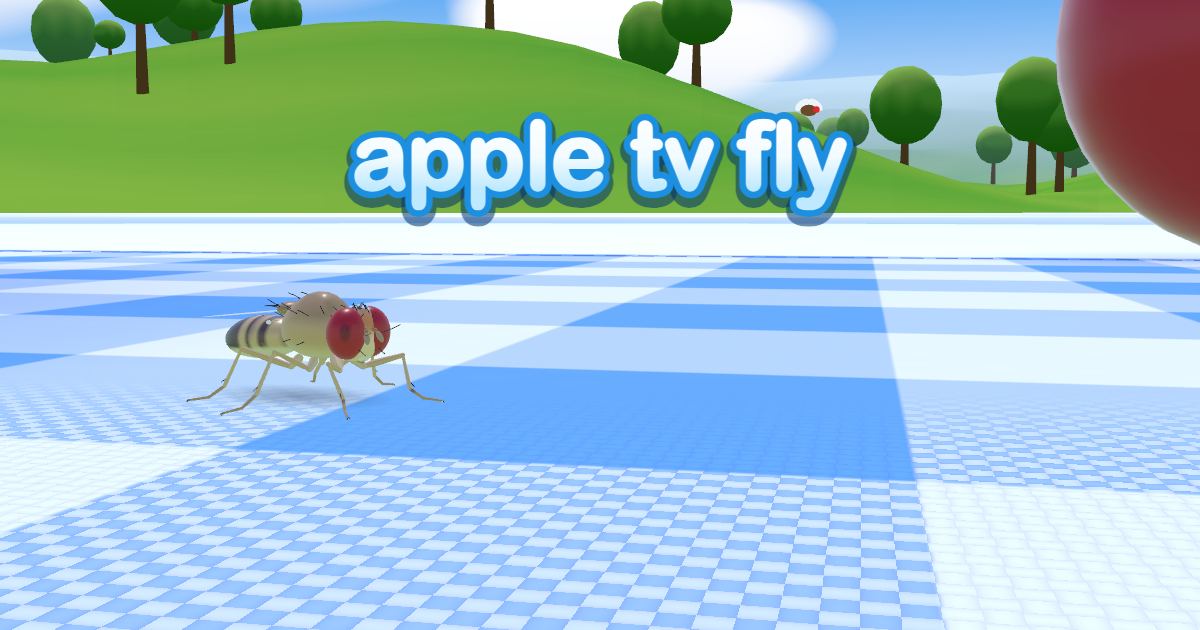
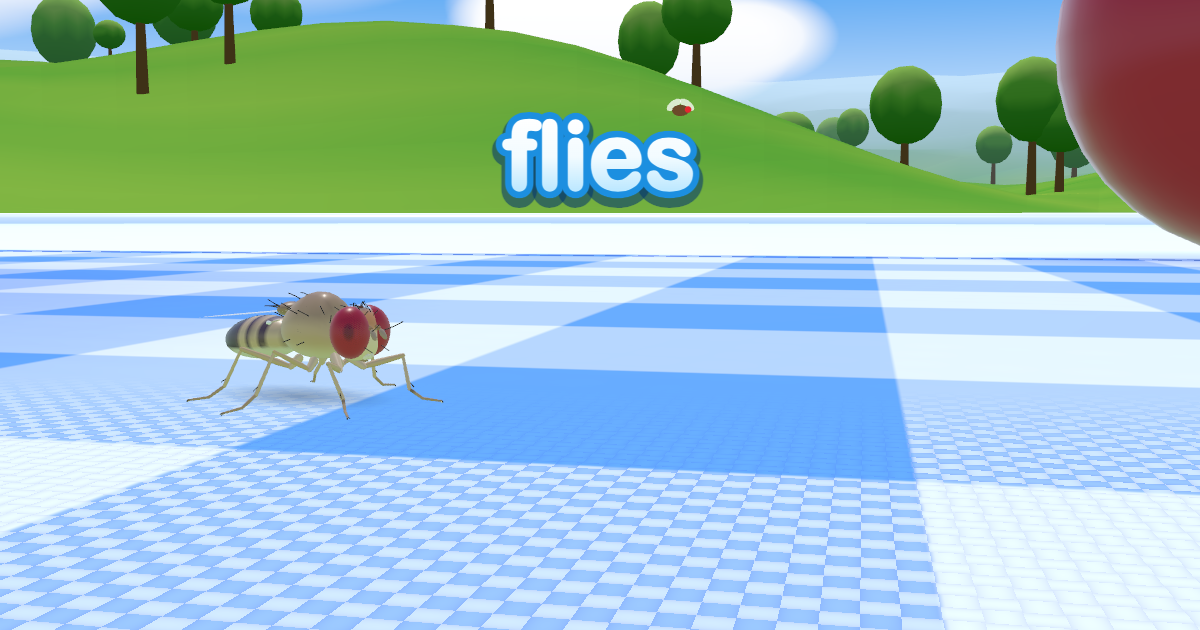
Call it Flies
The name people see is Flies: the title screen's wordmark, the launch image and link preview drawn with it, the Apple TV's display name, the browser tab, the web app manifest and the page's link preview. The bundle identifier is com.isaacthoman.flies, so a TV with the old app gets this as a separate app with fresh settings, and WeatherKit needs turning on for the new App ID (docs/apple-tv.md). The repository, the root package, the Xcode project and target, the saved settings' keys and the native threads and queues are named flies too.

diff --git a/apps/web/index.html b/apps/web/index.html
@@ -3,21 +3,21 @@
   <head>
     <meta charset="UTF-8" />
     <meta name="viewport" content="width=device-width, initial-scale=1, maximum-scale=1, user-scalable=no, viewport-fit=cover" />
-    <title>Apple TV Fly</title>
+    <title>Flies</title>
     <meta name="description" content="A fruit fly that lives on your screen. Nothing it does is scripted: a simulation of its whole nervous system, 166,700 neurons wired from the FlyEM male CNS connectome (Janelia Research Campus, CC-BY 4.0), decides what it does." />
     <meta name="theme-color" content="#04122b" />
     <meta name="color-scheme" content="dark" />
     <meta name="mobile-web-app-capable" content="yes" />
-    <meta name="apple-mobile-web-app-title" content="Apple TV Fly" />
+    <meta name="apple-mobile-web-app-title" content="Flies" />
     <link rel="icon" type="image/png" href="../../assets/web/favicon.png" />
     <link rel="apple-touch-icon" href="../../assets/web/apple-touch-icon.png" />
     <meta property="og:type" content="website" />
-    <meta property="og:title" content="Apple TV Fly" />
+    <meta property="og:title" content="Flies" />
     <meta property="og:description" content="A fruit fly whose every move is decided by a simulation of its whole nervous system: 166,700 neurons wired from the FlyEM male CNS connectome (Janelia Research Campus, CC-BY 4.0)." />
     <meta property="og:image" content="../../assets/web/preview.png" />
     <meta property="og:image:width" content="1200" />
     <meta property="og:image:height" content="630" />
-    <meta property="og:image:alt" content="A fruit fly standing on a picnic table under the words apple tv fly" />
+    <meta property="og:image:alt" content="A fruit fly standing on a picnic table under the word flies" />
     <meta name="twitter:card" content="summary_large_image" />
     <style>
       /* The game draws everything itself and fills the screen, under the notch too: the page must never scroll, zoom, select or offer its own menus. */

diff --git a/apps/web/tests/settings.test.ts b/apps/web/tests/settings.test.ts
@@ -26,8 +26,8 @@ function memory(saved: Record<string, string> = {}) {
     },
   };
 }
-const settingsSaved = (value: unknown) => memory({ "apple-tv-fly.settings": typeof value === "string" ? value : JSON.stringify(value) });
-const shelfSaved = (value: unknown) => memory({ "apple-tv-fly.shelf": typeof value === "string" ? value : JSON.stringify(value) });
+const settingsSaved = (value: unknown) => memory({ "flies.settings": typeof value === "string" ? value : JSON.stringify(value) });
+const shelfSaved = (value: unknown) => memory({ "flies.shelf": typeof value === "string" ? value : JSON.stringify(value) });
 
 const HOUR = 3_600_000;
 const NOW = Date.UTC(2026, 10, 16, 20);
@@ -139,9 +139,9 @@ test("what the hints have taught comes back, of the lessons this build has", () 
   saveLearned({ tools: true, feed: true, feather: true }, store);
   assert.deepEqual(loadLearned(store), { tools: true, feed: true, feather: true });
   // A tool since dropped, or a value that isn't a plain yes, is passed over.
-  const old = memory({ "apple-tv-fly.learned": JSON.stringify({ tools: true, lamp: true, swoop: 1, blow: "yes", place: true }) });
+  const old = memory({ "flies.learned": JSON.stringify({ tools: true, lamp: true, swoop: 1, blow: "yes", place: true }) });
   assert.deepEqual(loadLearned(old), { tools: true, place: true });
-  for (const raw of ["", "{", "null", '["tools"]', "true"]) assert.deepEqual(loadLearned(memory({ "apple-tv-fly.learned": raw })), {}, raw);
+  for (const raw of ["", "{", "null", '["tools"]', "true"]) assert.deepEqual(loadLearned(memory({ "flies.learned": raw })), {}, raw);
   assert.deepEqual(loadLearned(null), {});
 });
 

diff --git a/scripts/tvos.ts b/scripts/tvos.ts
@@ -10,7 +10,7 @@ const root = path.join(import.meta.dirname, '..');
 const appDir = path.join(root, 'apps/tvos');
 const www = path.join(appDir, 'www');
 const DEFAULT_TEAM_ID = 'PX72AL9366';
-const DEFAULT_BUNDLE_ID = 'com.isaacthoman.appletvfly';
+const DEFAULT_BUNDLE_ID = 'com.isaacthoman.flies';
 const TEAM_ID = process.env.TVOS_TEAM_ID || DEFAULT_TEAM_ID;
 export const BUNDLE_ID = process.env.TVOS_BUNDLE_ID || DEFAULT_BUNDLE_ID;
 /** The weather outside from WeatherKit: off unless the App ID has the capability (docs/apple-tv.md). */
@@ -98,12 +98,12 @@ function prepare({ testScene, standInBrain, standInWeather }: BuildOptions) {
   return env;
 }
 
-export const appPath = (sim: boolean) => path.join(appDir, `build/Build/Products/Release-${sim ? 'appletvsimulator' : 'appletvos'}/AppleTVFly.app`);
+export const appPath = (sim: boolean) => path.join(appDir, `build/Build/Products/Release-${sim ? 'appletvsimulator' : 'appletvos'}/Flies.app`);
 
 function build(options: BuildOptions) {
   const env = prepare(options);
   run('xcodebuild', [
-    '-project', 'AppleTVFly.xcodeproj', '-scheme', 'AppleTVFly', '-configuration', 'Release',
+    '-project', 'Flies.xcodeproj', '-scheme', 'Flies', '-configuration', 'Release',
     '-destination', options.sim ? 'generic/platform=tvOS Simulator' : 'generic/platform=tvOS', '-derivedDataPath', 'build',
     ...(options.sim ? ['CODE_SIGNING_ALLOWED=NO', 'ARCHS=arm64'] : ['-allowProvisioningUpdates', '-allowProvisioningDeviceRegistration']), '-quiet', 'build',
   ], appDir, env);

diff --git a/apps/web/tests/quality.test.ts b/apps/web/tests/quality.test.ts
@@ -71,7 +71,7 @@ test("a slow brain steps the picture down only while that helps it", () => {
   const bound = new Quality(saved);
   run(bound, 60, 16, 0.6);
   assert.equal(bound.level, 0, "a brain no cheaper picture helps is left as it is, and the picture with it");
-  assert.equal(saved.items.get("apple-tv-fly.quality") ?? "0", "0", "the way down isn't remembered");
+  assert.equal(saved.items.get("flies.quality") ?? "0", "0", "the way down isn't remembered");
   run(bound, 120, 16, 0.6);
   assert.equal(bound.level, 0, "and it doesn't try again");
 
@@ -103,11 +103,11 @@ test("the player's own choice starts afresh: no trial or half-judged window left
 });
 
 test("it starts a step better than where it settled last time, and the player's own choice resets it", () => {
-  const saved = store({ "apple-tv-fly.quality": "4" });
+  const saved = store({ "flies.quality": "4" });
   const q = new Quality(saved);
   assert.equal(q.level, 3);
   run(q, 120, 60);
-  assert.equal(saved.items.get("apple-tv-fly.quality"), String(LEVELS.length - 1));
+  assert.equal(saved.items.get("flies.quality"), String(LEVELS.length - 1));
   q.reset();
   assert.equal(q.level, 0);
 });

diff --git a/apps/tvos/tests/simulator.tvos.ts b/apps/tvos/tests/simulator.tvos.ts
@@ -81,7 +81,7 @@ if (!args.includes('--no-build')) {
 }
 
 const started = Date.now();
-const udid = xcrun('simctl', 'create', 'apple-tv-fly-check', 'com.apple.CoreSimulator.SimDeviceType.Apple-TV-4K-3rd-generation-1080p', `com.apple.CoreSimulator.SimRuntime.${runtime}`);
+const udid = xcrun('simctl', 'create', 'flies-check', 'com.apple.CoreSimulator.SimDeviceType.Apple-TV-4K-3rd-generation-1080p', `com.apple.CoreSimulator.SimRuntime.${runtime}`);
 console.log(`simulator ${udid} (${runtime})`);
 const output: string[] = [];
 let app: ReturnType<typeof spawn> | null = null;
@@ -128,7 +128,7 @@ try {
     }, 500);
   });
   await waitUntil(() => !!(done && latest && complete(latest)));
-  const shot = path.join(mkdtempSync(path.join(tmpdir(), 'apple-tv-fly-')), 'simulator.png');
+  const shot = path.join(mkdtempSync(path.join(tmpdir(), 'flies-')), 'simulator.png');
   xcrun('simctl', 'io', udid, 'screenshot', shot);
   const r = latest as unknown as Report;
   console.log(`\nreport ${JSON.stringify(r, null, 2)}\n`);

diff --git a/apps/web/e2e/play.e2e.ts b/apps/web/e2e/play.e2e.ts
@@ -278,7 +278,7 @@ try {
   assert.deepEqual([again.tool, again.variant, again.view, again.time, again.weather], ["feed", "sugar", "wide", "noon", "clear"]);
   const effects = await page.evaluate(() => (globalThis as unknown as { __fly: { settings: { effects: number } } }).__fly.settings.effects);
   assert.equal(effects, 6, "the sounds turned down");
-  const learned = await page.evaluate(() => JSON.parse(localStorage.getItem("apple-tv-fly.learned") ?? "{}") as Record<string, true>);
+  const learned = await page.evaluate(() => JSON.parse(localStorage.getItem("flies.learned") ?? "{}") as Record<string, true>);
   assert.deepEqual(Object.keys(learned).sort(), ["feed", "place", "swoop", "tools"], "the hints for what was used aren't taught again");
 
   step(`the frame's budget: at most ${maxCalls} draws and ${maxTriangles.toLocaleString("en-US")} triangles`);

diff --git a/apps/tvos/runtime/index.ts b/apps/tvos/runtime/index.ts
@@ -59,7 +59,7 @@ replace('location', {
 });
 replace('history', { length: 1, state: null, pushState() {}, replaceState() {}, back() {}, forward() {}, go() {} });
 replace('navigator', {
-  userAgent: 'Mozilla/5.0 (AppleTV; CPU OS 27_0 like Mac OS X) AppleWebKit/605.1.15 (KHTML, like Gecko) appletvfly-jsc',
+  userAgent: 'Mozilla/5.0 (AppleTV; CPU OS 27_0 like Mac OS X) AppleWebKit/605.1.15 (KHTML, like Gecko) flies-jsc',
   platform: 'AppleTV', vendor: 'Apple Computer, Inc.', language: 'en-US', languages: ['en-US', 'en'], onLine: true,
   hardwareConcurrency: 6, maxTouchPoints: 0, cookieEnabled: false, webdriver: false, deviceMemory: 4,
   userActivation: { hasBeenActive: true, isActive: true }, getGamepads: () => [], vibrate: () => false,

diff --git a/scripts/webBuild.ts b/scripts/webBuild.ts
@@ -20,7 +20,7 @@ const CACHE = path.join(root, "node_modules/.cache/fly-brain");
 const sha256 = (data: Uint8Array | string) => createHash("sha256").update(data).digest("hex");
 
 /** The name the app is installed under: what the title screen's wordmark says. */
-export const APP_NAME = "Apple TV Fly";
+export const APP_NAME = "Flies";
 export const DESCRIPTION =
   "A fruit fly that lives on your screen. Nothing it does is scripted: a simulation of its whole nervous system, 166,700 neurons wired from the FlyEM male CNS connectome (Janelia Research Campus, CC-BY 4.0), decides what it does.";
 /** The colour round the picture and behind the loading screen (apps/web/index.html). */

diff --git a/apps/web/src/ui/wordmark.ts b/apps/web/src/ui/wordmark.ts
@@ -1,10 +1,10 @@
-// The game's name as a glossy wordmark: "apple tv fly" in round white letters
-// with a candy outline, and a little fly for the dot of the i.
+// The game's name as a glossy wordmark: "flies" in round white letters with
+// a candy outline, and a little fly circling it.
 
 import { FONT, TAU } from "@fly/ui";
 
 export function drawWordmark(g: CanvasRenderingContext2D, x: number, y: number, size: number, t: number) {
-  const word = "apple tv fly";
+  const word = "flies";
   g.save();
   g.font = `700 ${size}px ${FONT}`;
   g.textAlign = "center";

diff --git a/apps/web/src/ui/layout.ts b/apps/web/src/ui/layout.ts
@@ -210,7 +210,7 @@ function spot(frame: Frame, x: number, y: number) {
   return { across: x / (width / 2) - 1, low: y / (height / 2) - 1 };
 }
 
-/** The wordmark's size to fit a width: about 6.5 of it across "apple tv fly". */
+/** The wordmark's size for a width: a 6.5th of it, in proportion to the brain's state under it. */
 const wordmarkFor = (width: number, most: number) => Math.max(24, Math.min(most, (width - 32) / 6.5));
 
 export type TitleLayout = {

diff --git a/apps/tvos/weather/Shared/OutsideWeather.swift b/apps/tvos/weather/Shared/OutsideWeather.swift
@@ -40,7 +40,7 @@ final class Answer: @unchecked Sendable {
   private var _attribution: String?
   private var _fetchedAt: Date?
   /** Conditions and when they were fetched; never where. */
-  private static let key = "appletvfly.outsideWeather"
+  private static let key = "flies.outsideWeather"
 
   init() {
     if let kept = UserDefaults.standard.dictionary(forKey: Self.key), let c = kept["conditions"] as? String, let at = kept["fetchedAt"] as? Double {

diff --git a/apps/tvos/runtime/webgl.ts b/apps/tvos/runtime/webgl.ts
@@ -289,7 +289,7 @@ export class WebGL2RenderingContext {
   getParameter(pname: number): unknown {
     const i = info();
     switch (pname) {
-      case C.VERSION: return 'WebGL 2.0 (OpenGL ES 3.0 appletvfly-jsc)';
+      case C.VERSION: return 'WebGL 2.0 (OpenGL ES 3.0 flies-jsc)';
       case C.SHADING_LANGUAGE_VERSION: return 'WebGL GLSL ES 3.00';
       case C.VENDOR: return 'WebKit';
       case C.RENDERER: return 'WebKit WebGL';
